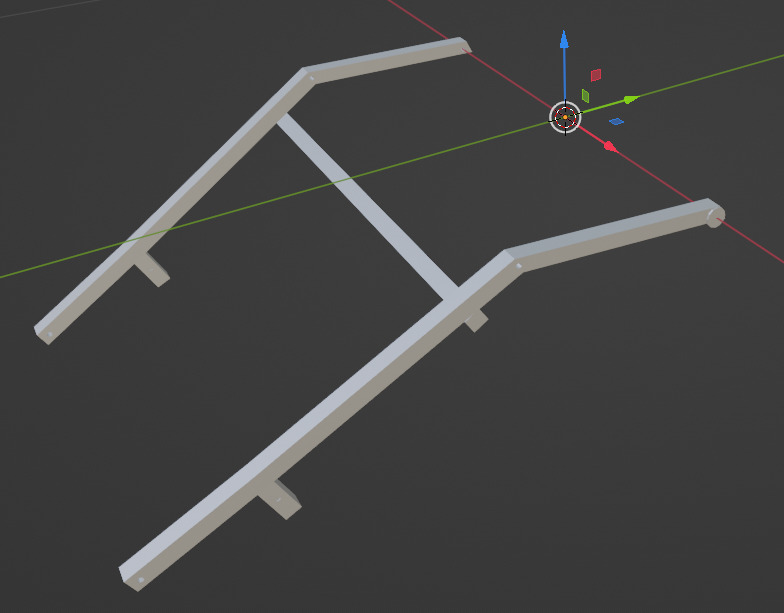
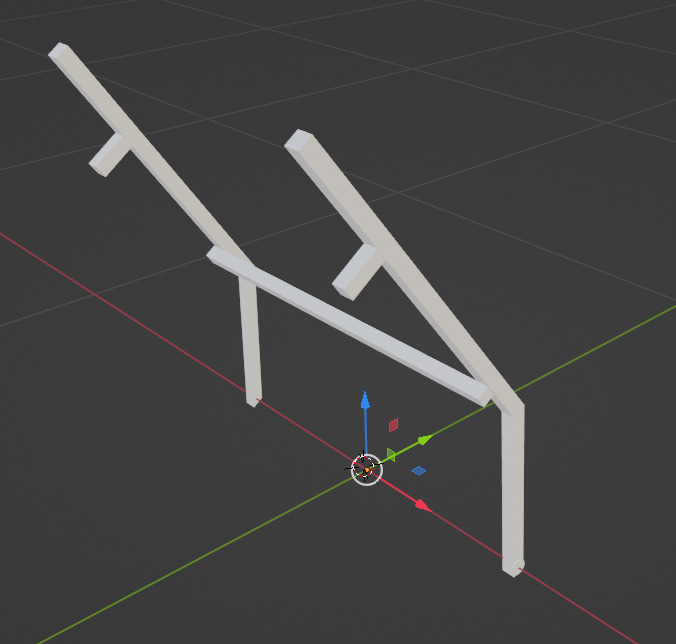
Update boom and dump render JPG files to match as-built coordinate system.

diff --git a/README.md b/README.md
@@ -8,8 +8,7 @@ To build this source code, download OpenSCAD 2020 or newer, and:
     openscad Excahaul_latest.scad
 ```
 
-The subdirectories contain a variety of subassemblies which are primarily 3D printed, held onto a frame which is primarily welded steel. This is a photo from the front of the robot, showing our first rough physical prototype.
-![Photo of robot holding tool.](documentation/excahauler_front.jpg?raw=true "Front view of the robot")
+The subdirectories contain a variety of subassemblies which are primarily 3D printed, held onto a frame which is primarily welded steel. 
 
 
 ## Parts of the Robot
@@ -21,7 +20,7 @@ The overall coordinate system has +Y forward (as required by Unity for simulatio
 The base of the robot is the welded steel **frame**, which is MIG welded from 1 inch / 25mm steel box tubing like most of the robot's fabricated parts.  The front wheels bolt directly to the frame for stability, and the middle and rear wheels are on a rocker to conform to the ground. The large rear electronics box also bolts on directly, and the front fork and arm boom are bolted directly on the frame as well.
 ![Diagram of main robot frame: sparse steel tubes in a rough U shape.](documentation/render/frame.jpg?raw=true "Frame: holds the wheels and everything else.")
 
-The robot arm moves via two links.  The arm **boom** connects to the robot frame and provides front-back motion. (The boom coordinate system is rotated by 25 degrees from the longer bar, because the boom inertial measurement unit is mounted on the shorter angled bar.)
+The robot arm moves via two links.  The arm **boom** connects to the robot frame and provides front-back motion. (The boom coordinate system is aligned with the inertial measurement unit mounted on the shorter angled bar, which is rotated about 25 degrees from the longer bar.)
 ![Diagram of boom.](documentation/render/boom.jpg?raw=true "Boom")
 
 The second robot arm link is the **stick** (following the odd excavator naming convention).  The stick has an Intel RealSense D455 depth camera mounted on top, and small electronics box for motor controllers and interfacing.
@@ -41,9 +40,11 @@ A variety of excavation **tool**s could be used, but the highest productivity to
 We move excavated material around in the front scoop.  The **fork** linear actuator raises and lowers the scoop relative to the frame via this part; the **dump** linear actuator rides on the fork and pivots the scoop to unload material.
 ![Diagram of fork.](documentation/render/fork.jpg?raw=true "Fork")
 
-The front **scoop** has a volume of 50 liters, which lets it carry a payload of about 50 kg of broken-up regolith simulant chips.
+The front **scoop** has a volume of 50 liters, which lets it carry a payload of about 50 kg of broken-up regolith simulant chips.  The coordinate system is rotated by 45 degrees to match the inertial measurement unit on the pivot arm. 
 ![Diagram of scoop.](documentation/render/dump.jpg?raw=true "Scoop")
 
+This is a photo from the front of the robot, showing our first rough physical prototype.
+![Photo of robot holding tool.](documentation/excahauler_front.jpg?raw=true "Front view of the robot")
 
 Each OpenSCAD file has some comments, but we are adding comments and README to make this easier to follow.  Please contact lawlor@alaska.edu if you have questions or suggestions!
 
